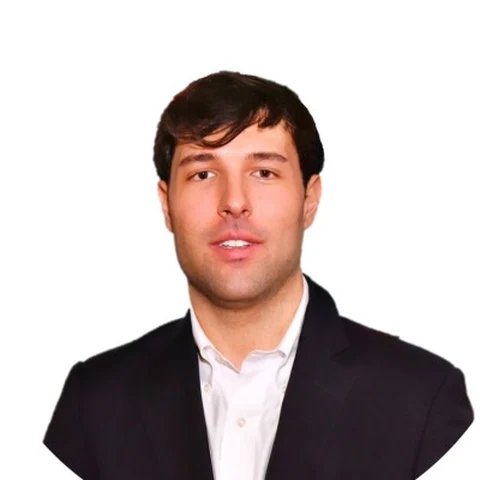
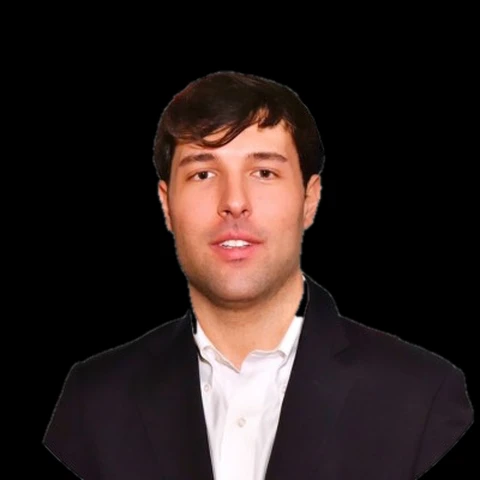
Team: Alessandro photo on black background
Claude-Session: https://claude.ai/code/session_01QaSNUs3kMkBisfXYmeyphN

diff --git a/src/pages/Team.jsx b/src/pages/Team.jsx
@@ -20,7 +20,7 @@ function Person({ p, cls }) {
       boxShadow: '0 2px 10px rgba(27,58,27,0.06)', display: 'flex', flexDirection: 'column', minWidth: 0, minHeight: 0,
     }}>
       <div className="team-photo" style={{ flex: 1, minHeight: 0, background: '#fff', overflow: 'hidden' }}>
-        <img src={`/img/team/${p.slug}.webp?v=3`} alt={p.name} width={480} height={480} loading="eager"
+        <img src={`/img/team/${p.slug}.webp?v=4`} alt={p.name} width={480} height={480} loading="eager"
           style={{ width: '100%', height: '100%', objectFit: 'cover', objectPosition: 'center 28%', display: 'block' }} />
       </div>
       <div className="team-txt" style={{ padding: '14px 18px 16px', flex: 'none', minHeight: 146, boxSizing: 'border-box' }}>
